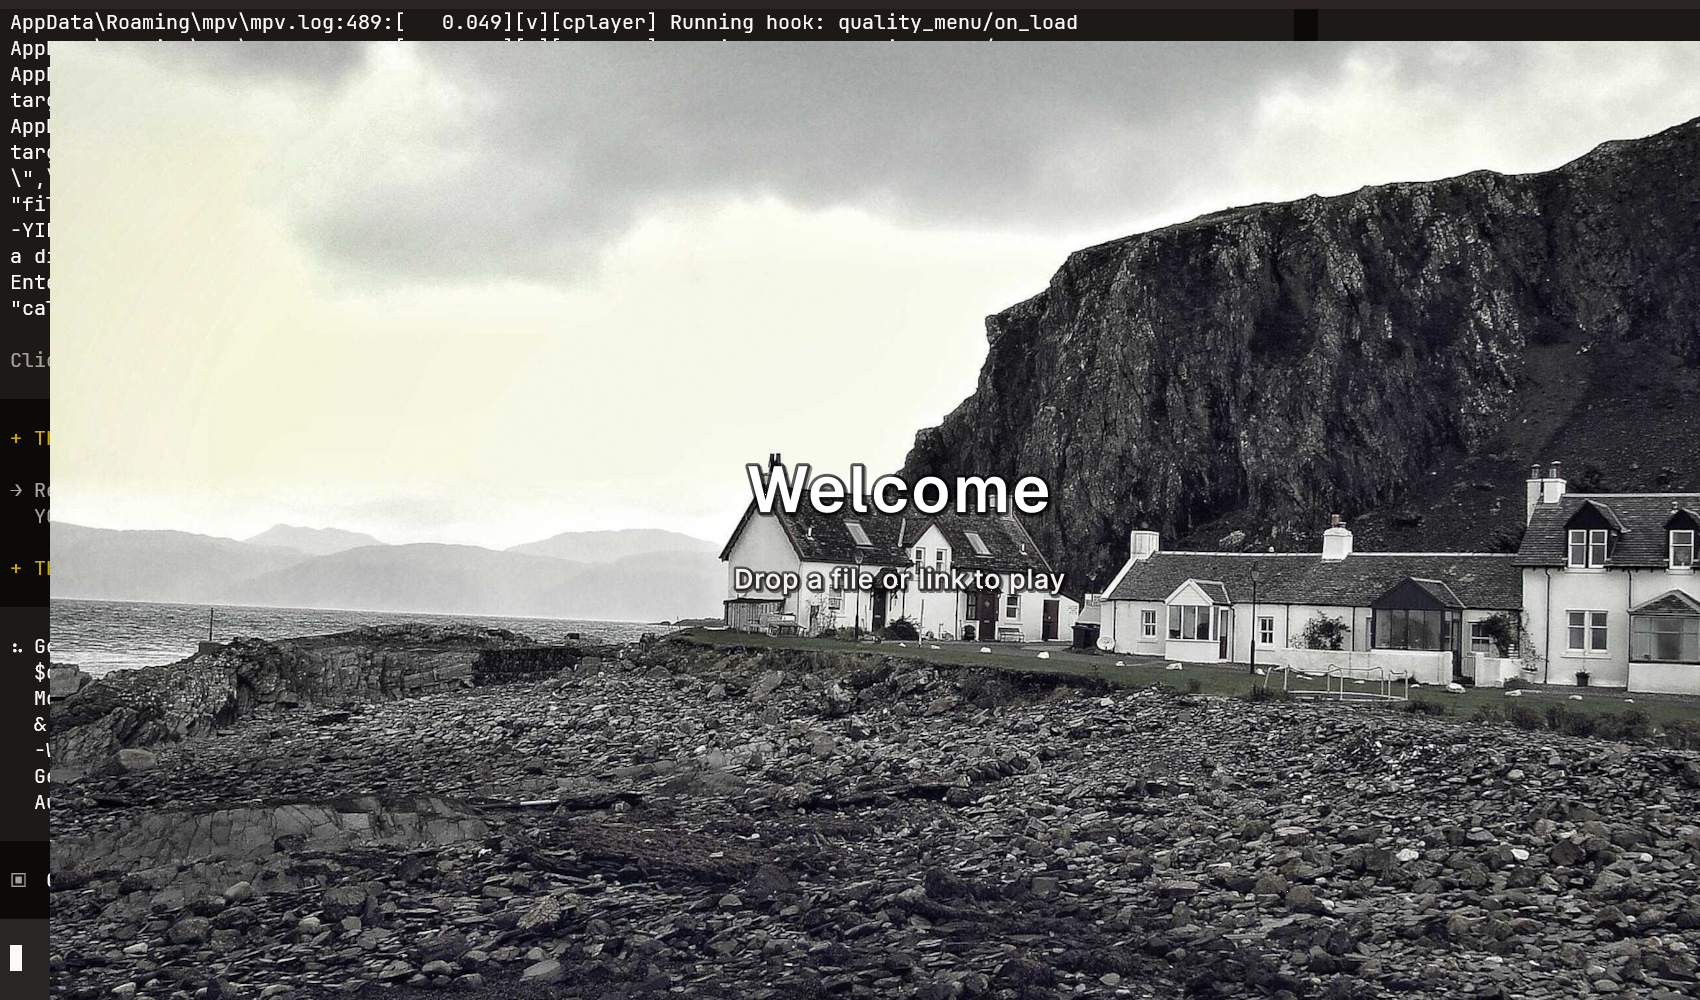
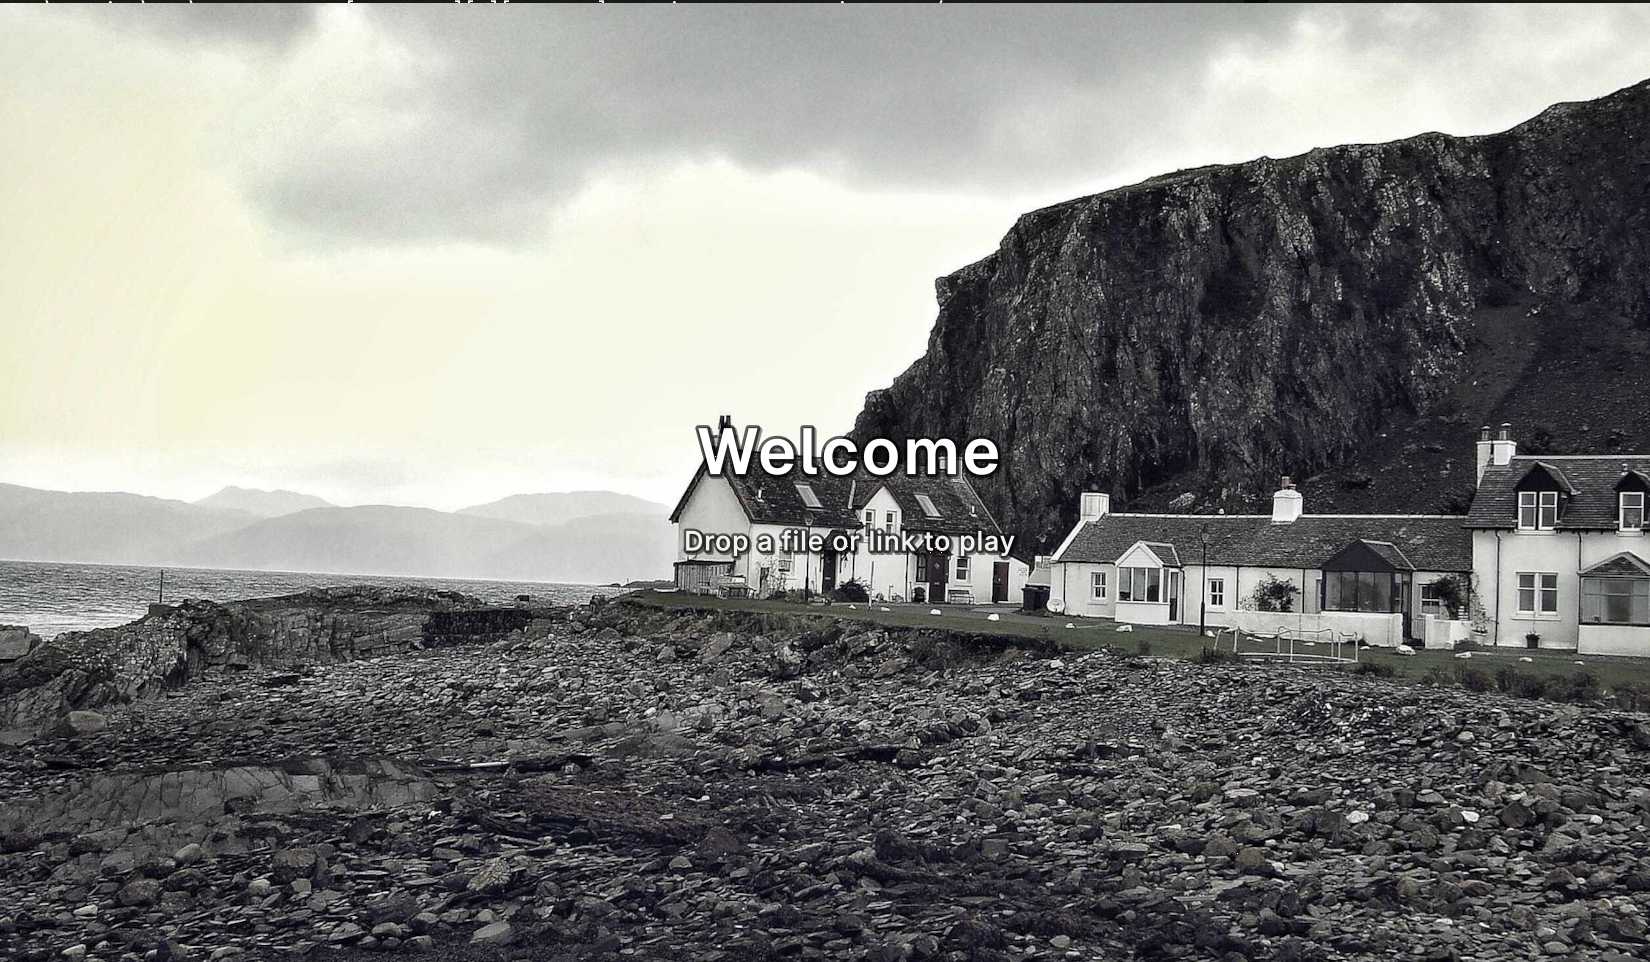
Remove the local paths from the published screenshots
The four stills were photographs of a terminal window and a chat window sitting on top of the player. They carried C:\\Users\\...\\ffprobe.exe and the mpv log path, in a public repository, and the captions did not match what was in them.

The chrome is cropped away so only the player is left, the images are renamed for what they actually show - control bar, format picker, load-media browser, idle screen - and the captions were rewritten to match. The idle screen is a photograph, so it now ships as a jpeg and the page loses two and a half megabytes on its largest asset.

Also the script count in the statistics said twelve where the repository has always said thirteen.

diff --git a/site/index.html b/site/index.html
@@ -149,7 +149,7 @@
       <!-- the picture -->
       <div class="lg:col-span-6">
         <figure class="plate hero-enter" style="animation-delay:.37s">
-          <img src="assets/images/hero-idle.png" alt="The mpv idle screen, with a fetched photograph behind the prompt and the key hints" width="1920" height="1200" loading="eager" decoding="async">
+          <img src="assets/images/hero-idle.jpg" alt="The mpv idle screen, with a fetched photograph behind the prompt and the key hints" width="1920" height="1200" loading="eager" decoding="async">
           <figcaption class="plate-cap"><b>PLATE 01</b> <span>the idle screen &mdash; a fetched photograph behind the prompt</span></figcaption>
         </figure>
       </div>
@@ -208,7 +208,7 @@
   </div>
 
   <!-- the one dark room -->
-  <div class="dark-plate w-full py-16">
+  <div class="dark-plate w-full mt-16 py-16">
     <div class="shell">
       <div class="rule"></div>
       <p class="kicker mt-6">the frames, on a light table</p>
@@ -224,22 +224,22 @@
     <!-- the four printed figures -->
     <div class="mt-14 grid gap-x-8 gap-y-10 lg:grid-cols-12">
       <figure class="plate lg:col-span-6 reveal">
-        <img src="assets/images/player-controls.png" alt="The Liquid Glass control bar drawn over a playing frame, with a hairline timeline along the bottom" width="1500" height="900" loading="lazy" decoding="async">
-        <figcaption class="plate-cap"><b>PLATE 02</b> <span>Liquid Glass controls over a playing frame</span></figcaption>
+        <img src="assets/images/control-bar.png" alt="The Liquid Glass control bar drawn over a playing frame, with a hairline timeline along the bottom" width="1500" height="900" loading="lazy" decoding="async">
+        <figcaption class="plate-cap"><b>PLATE 02</b> <span>the Liquid Glass control bar, drawn over the frame</span></figcaption>
       </figure>
 
       <figure class="plate lg:col-span-6 reveal">
-        <img src="assets/images/volume-hover.png" alt="The volume ribbon drawn above the frame, under the pointer, while the pointer rests on the speaker control" width="1500" height="900" loading="lazy" decoding="async">
-        <figcaption class="plate-cap"><b>PLATE 03</b> <span>the volume ribbon, drawn where the pointer is</span></figcaption>
+        <img src="assets/images/format-picker.png" alt="The YouTube format picker, listing the formats the server offers for the video" width="1500" height="900" loading="lazy" decoding="async">
+        <figcaption class="plate-cap"><b>PLATE 03</b> <span>the format picker: the formats the server actually offers</span></figcaption>
       </figure>
 
       <figure class="plate lg:col-span-6 reveal">
-        <img src="assets/images/menu-autosubs.png" alt="The menu panel listing the subtitle tracks found by the automatic lookup, set in the player type scale" width="1500" height="900" loading="lazy" decoding="async">
-        <figcaption class="plate-cap"><b>PLATE 04</b> <span>the menu panel, same type scale as the player</span></figcaption>
+        <img src="assets/images/load-media-menu.png" alt="The load-media browser, a search field and a result list, set in the player type scale" width="1500" height="900" loading="lazy" decoding="async">
+        <figcaption class="plate-cap"><b>PLATE 04</b> <span>the load-media browser, in the player's own type scale</span></figcaption>
       </figure>
 
       <figure class="plate lg:col-span-6 reveal">
-        <img src="assets/images/hero-idle.png" alt="The mpv idle screen with a fetched photograph behind the prompt and the key hints" width="1920" height="1200" loading="lazy" decoding="async">
+        <img src="assets/images/hero-idle.jpg" alt="The mpv idle screen with a fetched photograph behind the prompt and the key hints" width="1920" height="1200" loading="lazy" decoding="async">
         <figcaption class="plate-cap"><b>PLATE 01</b> <span>the idle screen</span></figcaption>
       </figure>
     </div>

diff --git a/site/partials/02-showcase.html b/site/partials/02-showcase.html
@@ -16,7 +16,7 @@
   </div>
 
   <!-- the one dark room -->
-  <div class="dark-plate w-full py-16">
+  <div class="dark-plate w-full mt-16 py-16">
     <div class="shell">
       <div class="rule"></div>
       <p class="kicker mt-6">the frames, on a light table</p>
@@ -32,22 +32,22 @@
     <!-- the four printed figures -->
     <div class="mt-14 grid gap-x-8 gap-y-10 lg:grid-cols-12">
       <figure class="plate lg:col-span-6 reveal">
-        <img src="assets/images/player-controls.png" alt="The Liquid Glass control bar drawn over a playing frame, with a hairline timeline along the bottom" width="1500" height="900" loading="lazy" decoding="async">
-        <figcaption class="plate-cap"><b>PLATE 02</b> <span>Liquid Glass controls over a playing frame</span></figcaption>
+        <img src="assets/images/control-bar.png" alt="The Liquid Glass control bar drawn over a playing frame, with a hairline timeline along the bottom" width="1500" height="900" loading="lazy" decoding="async">
+        <figcaption class="plate-cap"><b>PLATE 02</b> <span>the Liquid Glass control bar, drawn over the frame</span></figcaption>
       </figure>
 
       <figure class="plate lg:col-span-6 reveal">
-        <img src="assets/images/volume-hover.png" alt="The volume ribbon drawn above the frame, under the pointer, while the pointer rests on the speaker control" width="1500" height="900" loading="lazy" decoding="async">
-        <figcaption class="plate-cap"><b>PLATE 03</b> <span>the volume ribbon, drawn where the pointer is</span></figcaption>
+        <img src="assets/images/format-picker.png" alt="The YouTube format picker, listing the formats the server offers for the video" width="1500" height="900" loading="lazy" decoding="async">
+        <figcaption class="plate-cap"><b>PLATE 03</b> <span>the format picker: the formats the server actually offers</span></figcaption>
       </figure>
 
       <figure class="plate lg:col-span-6 reveal">
-        <img src="assets/images/menu-autosubs.png" alt="The menu panel listing the subtitle tracks found by the automatic lookup, set in the player type scale" width="1500" height="900" loading="lazy" decoding="async">
-        <figcaption class="plate-cap"><b>PLATE 04</b> <span>the menu panel, same type scale as the player</span></figcaption>
+        <img src="assets/images/load-media-menu.png" alt="The load-media browser, a search field and a result list, set in the player type scale" width="1500" height="900" loading="lazy" decoding="async">
+        <figcaption class="plate-cap"><b>PLATE 04</b> <span>the load-media browser, in the player's own type scale</span></figcaption>
       </figure>
 
       <figure class="plate lg:col-span-6 reveal">
-        <img src="assets/images/hero-idle.png" alt="The mpv idle screen with a fetched photograph behind the prompt and the key hints" width="1920" height="1200" loading="lazy" decoding="async">
+        <img src="assets/images/hero-idle.jpg" alt="The mpv idle screen with a fetched photograph behind the prompt and the key hints" width="1920" height="1200" loading="lazy" decoding="async">
         <figcaption class="plate-cap"><b>PLATE 01</b> <span>the idle screen</span></figcaption>
       </figure>
     </div>

diff --git a/site/assets/js/three-scene.js b/site/assets/js/three-scene.js
@@ -25,15 +25,15 @@
   }
 
   var FRAMES = [
-    { src: 'assets/images/player-controls.png', title: 'Liquid Glass controls' },
-    { src: 'assets/images/volume-hover.png', title: 'Hover overlays' },
-    { src: 'assets/images/menu-autosubs.png', title: 'Menu panels' },
-    { src: 'assets/images/hero-idle.png', title: 'The idle screen' }
+    { src: 'assets/images/control-bar.png', title: 'The Liquid Glass control bar' },
+    { src: 'assets/images/format-picker.png', title: 'The format picker' },
+    { src: 'assets/images/load-media-menu.png', title: 'The load-media browser' },
+    { src: 'assets/images/hero-idle.jpg', title: 'The idle screen' }
   ];
 
-  var WIDTH = 5.0;
-  var HEIGHT = 3.0;
-  var RADIUS = 9.4;
+  var WIDTH = 4.2;
+  var HEIGHT = 2.52;
+  var RADIUS = 7;
   var SPREAD = 0.42;
 
   function mount(container, options) {
@@ -44,9 +44,8 @@
     var count = opts.frames || FRAMES.length;
 
     var scene = new THREE.Scene();
-    var camera = new THREE.PerspectiveCamera(38, 1, 0.1, 100);
-    camera.position.set(0, 0.2, 11.4);
-    camera.lookAt(0, 0, 0);
+    var camera = new THREE.PerspectiveCamera(30, 1, 0.1, 100);
+    camera.position.set(0, 0.1, 9.2);
 
     var renderer;
     try {
@@ -119,6 +118,9 @@
             loaded += 1;
             faceMaterial.opacity = 1;
             backMaterial.opacity = 1;
+            /* with reduced motion the loop never runs, so the one still
+               frame has to be redrawn now that the picture is there */
+            if (!running) render(0);
           },
           undefined,
           function () {
@@ -168,13 +170,20 @@
       var width = Math.max(1, Math.round(rect.width || container.offsetWidth || 1));
       var height = Math.max(1, Math.round(rect.height || container.offsetHeight || 1));
       camera.aspect = width / height;
+
+      /* Frame the arc whatever shape the plate is: the widest frame sits
+         half a width outside the outer edge of the arc. */
+      var maxAngle = ((count - 1) / 2) * SPREAD;
+      var halfSpan = Math.sin(maxAngle) * RADIUS + WIDTH / 2;
+      var halfHeight = HEIGHT / 2;
+      var vFov = (camera.fov * Math.PI) / 180;
+      var forWidth = halfSpan / (Math.tan(vFov / 2) * camera.aspect);
+      var forHeight = halfHeight / Math.tan(vFov / 2);
+
+      camera.position.set(0, 0.05, Math.max(forWidth, forHeight) + 1.1);
+      camera.lookAt(0, 0, 0);
       camera.updateProjectionMatrix();
       renderer.setSize(width, height, false);
-
-      /* keep the arc in frame whatever the plate is shaped like */
-      var fit = Math.min(1, width / 1180);
-      camera.position.z = 11.4 / Math.max(fit, 0.42);
-      camera.updateProjectionMatrix();
     }
 
     function render(timestamp) {

diff --git a/site/assets/css/main.css b/site/assets/css/main.css
@@ -45,7 +45,7 @@
   --font-sans: 'Archivo', 'Helvetica Neue', 'Segoe UI', Arial, sans-serif;
   --font-mono: 'IBM Plex Mono', ui-monospace, 'SFMono-Regular', Consolas, monospace;
 
-  --band: 8.5rem;
+  --band: 9rem;
   --gutter: 2rem;
   --nav-h: 3.75rem;
   --ease: cubic-bezier(0.22, 1, 0.36, 1);
@@ -112,9 +112,9 @@ body {
   font-family: var(--font-display);
   font-variation-settings: 'opsz' 96;
   font-weight: 400;
-  font-size: clamp(3.1rem, 8.6vw, 7.4rem);
-  line-height: 0.92;
-  letter-spacing: -0.02em;
+  font-size: clamp(2.7rem, 5.4vw, 4.9rem);
+  line-height: 0.98;
+  letter-spacing: -0.018em;
   text-wrap: balance;
 }
 
@@ -830,7 +830,7 @@ kbd {
   position: relative;
   width: 100%;
   height: 100%;
-  min-height: 22rem;
+  min-height: 26rem;
 }
 #plate-canvas canvas {
   display: block;

diff --git a/site/partials/01-hero.html b/site/partials/01-hero.html
@@ -24,7 +24,7 @@
       <!-- the picture -->
       <div class="lg:col-span-6">
         <figure class="plate hero-enter" style="animation-delay:.37s">
-          <img src="assets/images/hero-idle.png" alt="The mpv idle screen, with a fetched photograph behind the prompt and the key hints" width="1920" height="1200" loading="eager" decoding="async">
+          <img src="assets/images/hero-idle.jpg" alt="The mpv idle screen, with a fetched photograph behind the prompt and the key hints" width="1920" height="1200" loading="eager" decoding="async">
           <figcaption class="plate-cap"><b>PLATE 01</b> <span>the idle screen &mdash; a fetched photograph behind the prompt</span></figcaption>
         </figure>
       </div>

diff --git a/site/assets/js/config-data.js b/site/assets/js/config-data.js
@@ -77,7 +77,7 @@
     /* ---------------------------------------------------------- numbers -- */
     stats: [
       {
-        value: 12,
+        value: 13,
         title: 'Lua scripts',
         detail: 'Every key binding on the page is one of them'
       },
